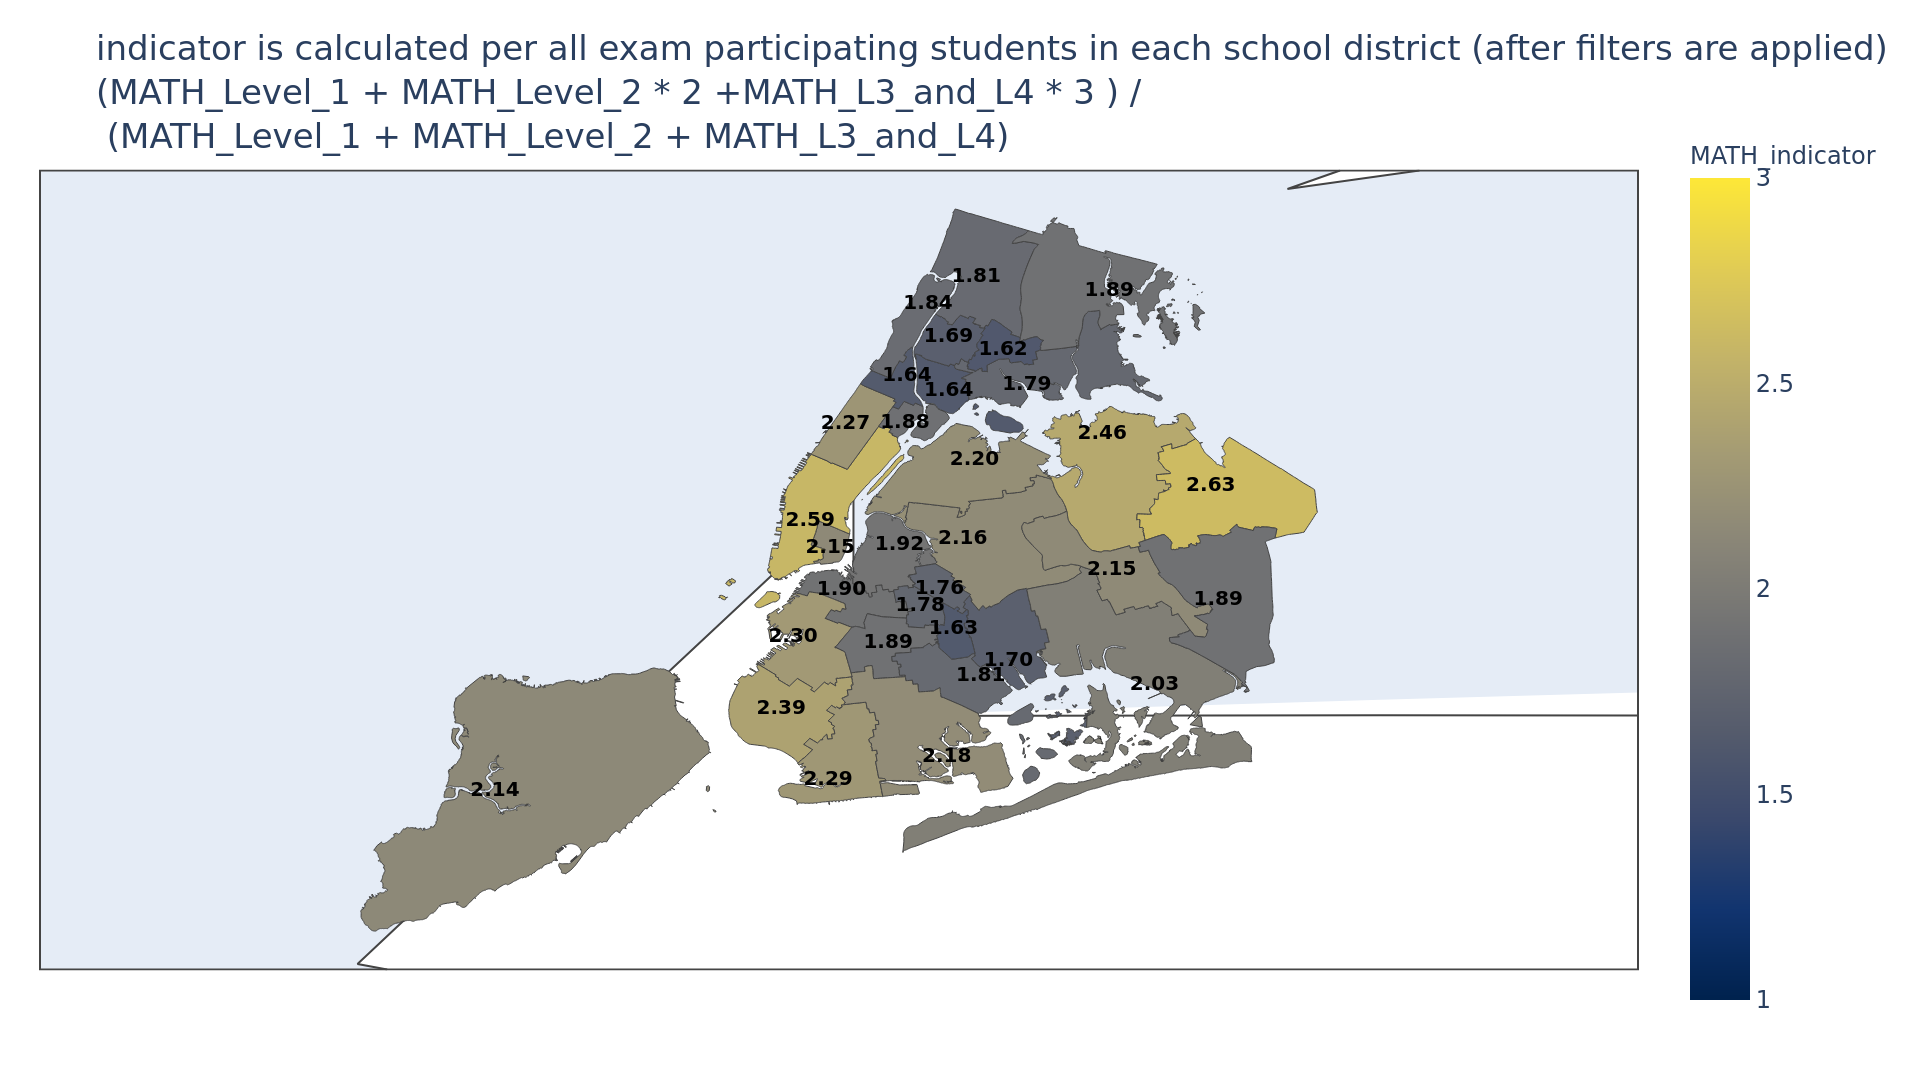
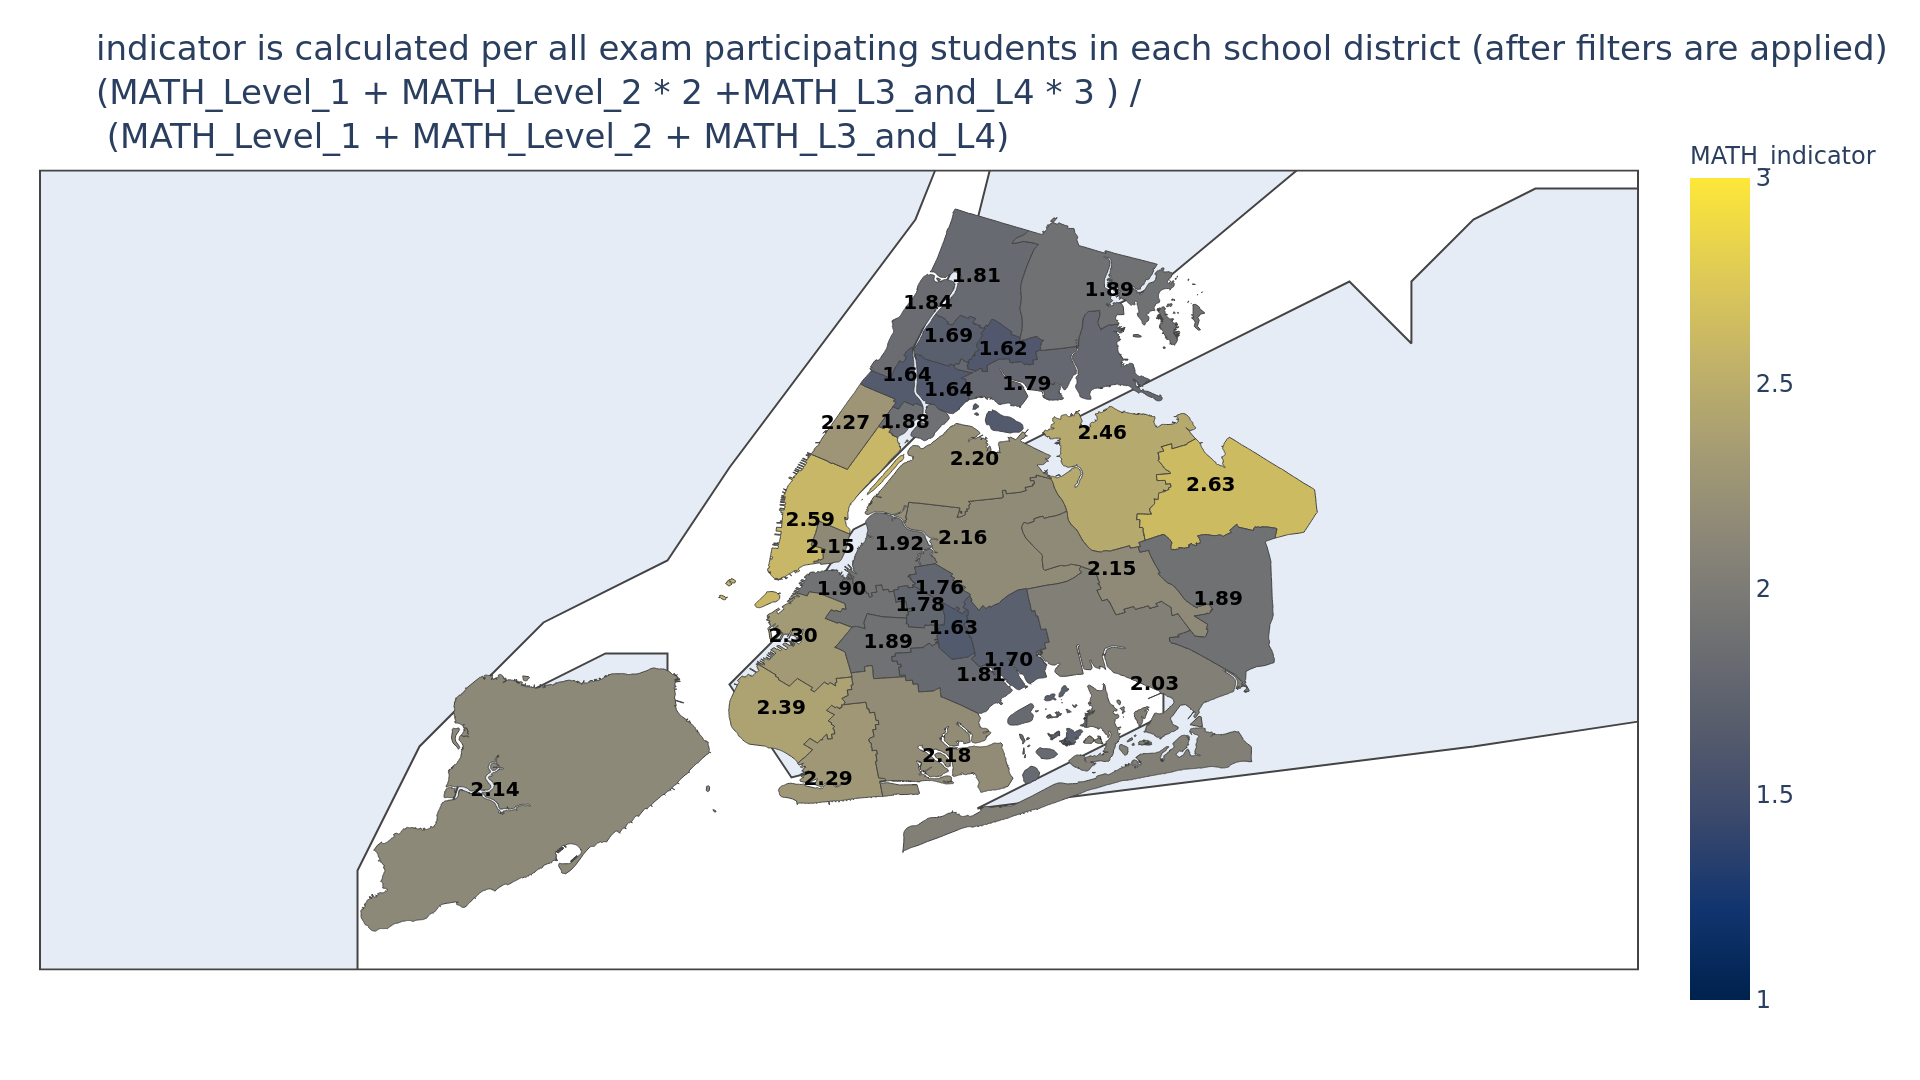
chart: increased map resolution

diff --git a/sql_app/celery_tasks.py b/sql_app/celery_tasks.py
@@ -79,11 +79,11 @@ def save_chart(filters_dict,id):
                                 range_color=[1.0,3.0],
                                 )
 
-        fig.update_geos(fitbounds='locations')  # zoom on NYC
+        fig.update_geos(fitbounds='geojson', resolution=50)  # zoom on NYC, increased resolution of map
 
         fig['layout'].update(margin=dict(l=20,r=30,b=30,t=60))
         fig.update_traces(marker_line_width=0.5)
-
+        
 
         fig.add_scattergeo(
         geojson=nycmap,
